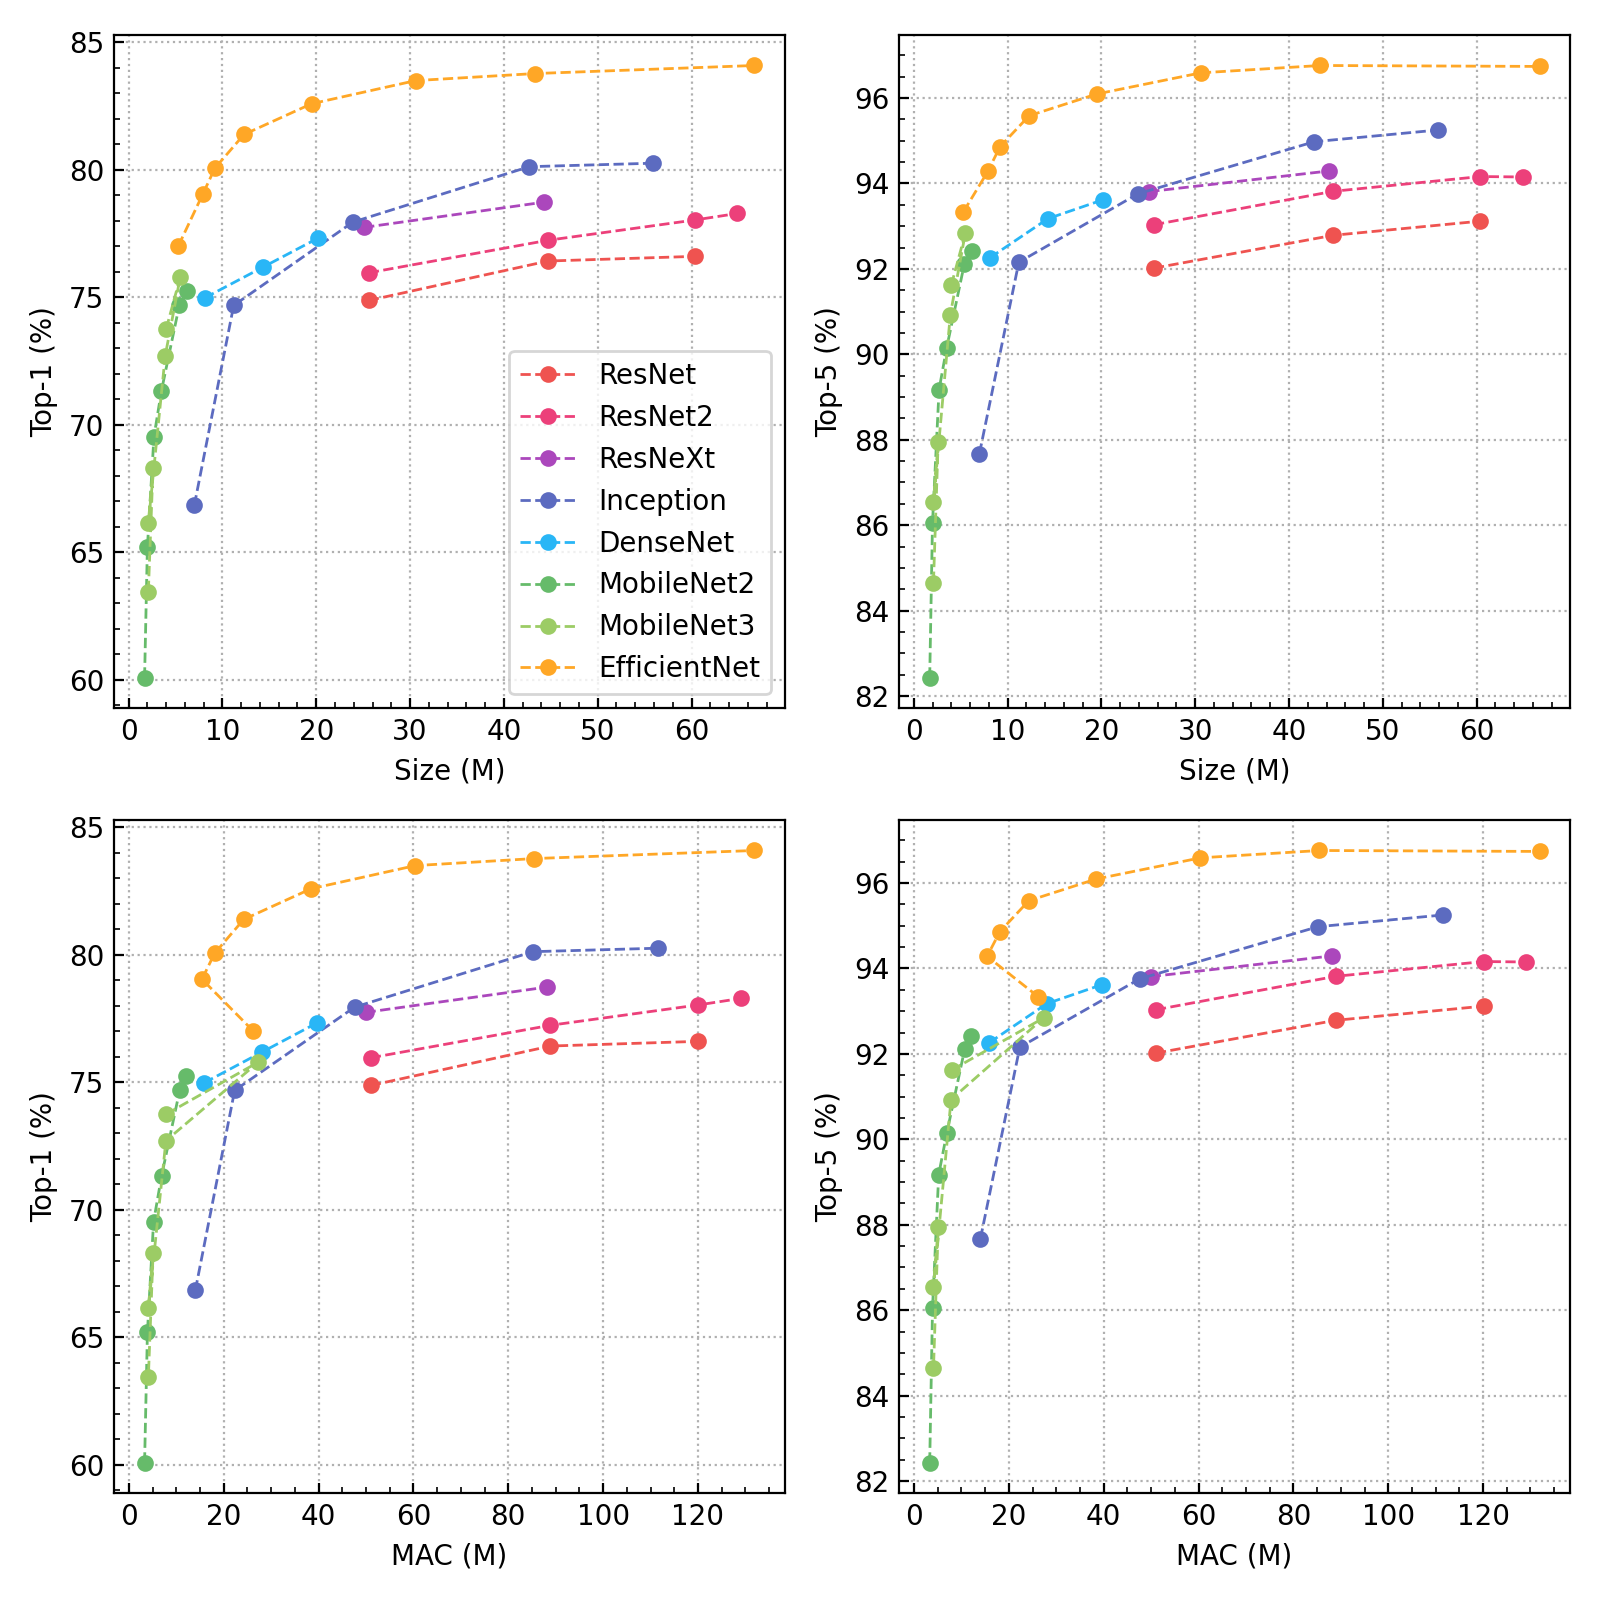
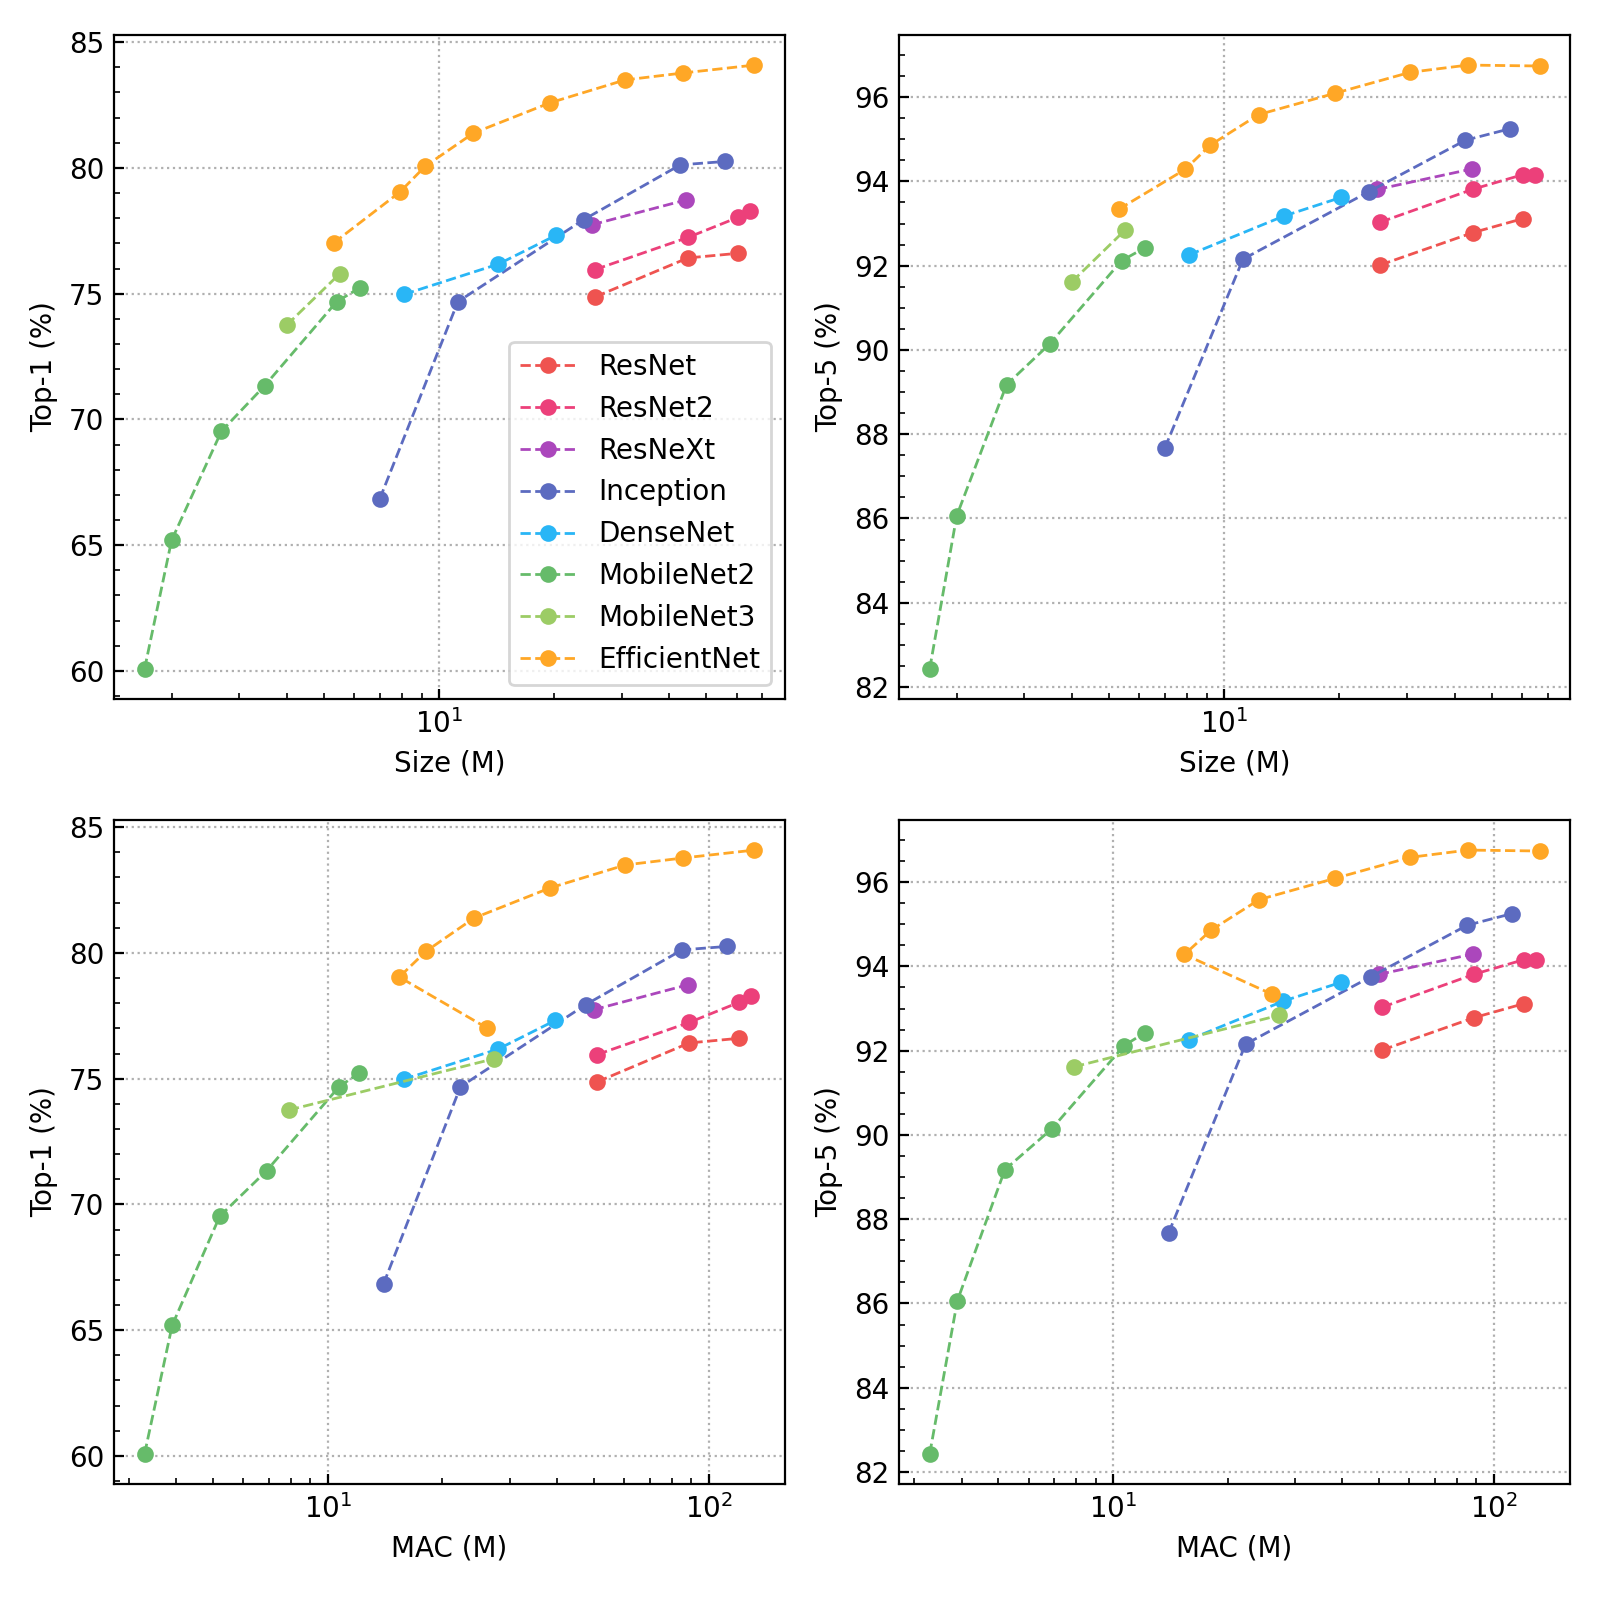
Update the summary plots with a log scale and MobileNetV3 filtering

diff --git a/examples/generate_summary.py b/examples/generate_summary.py
@@ -38,7 +38,7 @@ groups.append(
 groups.append(
     ('MobileNet2', '#66BB6A', np.array([('MobileNet' in x) and ('v2' in x) for x in name])))
 groups.append(
-    ('MobileNet3', '#9CCC65', np.array([('v3' in x) for x in name])))
+    ('MobileNet3', '#9CCC65', np.array([('v3large' in x) and ('mini' not in x) for x in name])))
 groups.append(
     ('EfficientNet', '#FFA726', np.array([('EfficientNet' in x) for x in name])))
 
@@ -53,15 +53,19 @@ for (label, color, index) in groups:
 
 axarr[0, 0].legend()
 axarr[0, 0].set_xlabel('Size (M)')
+axarr[0, 0].set_xscale('log')
 axarr[0, 0].set_ylabel('Top-1 (%)')
 
 axarr[0, 1].set_xlabel('Size (M)')
+axarr[0, 1].set_xscale('log')
 axarr[0, 1].set_ylabel('Top-5 (%)')
 
 axarr[1, 0].set_xlabel('MAC (M)')
+axarr[1, 0].set_xscale('log')
 axarr[1, 0].set_ylabel('Top-1 (%)')
 
 axarr[1, 1].set_xlabel('MAC (M)')
+axarr[1, 1].set_xscale('log')
 axarr[1, 1].set_ylabel('Top-5 (%)')
 
 for i in range(2):

diff --git a/README.md b/README.md
@@ -271,6 +271,7 @@ with tf.Session() as sess:
   * Stem: rounded the number of parameters (w/o fully-connected layers)
 - The computation times were measured on NVIDIA Tesla P100 (3584 cores, 16 GB global memory) with cuDNN 6.0 and CUDA 8.0.
   * Speed: milliseconds for inferences of 100 images
+- The summary plot is generated by [this script](examples/generate_summary.py).
 
 |              | Input | Top-1       | Top-5       | MAC    | Size   | Stem   | Speed | References                                                                                                                                                                                                                                                                                                                                                                                                                                         |
 |--------------|-------|-------------|-------------|--------|--------|--------|-------|----------------------------------------------------------------------------------------------------------------------------------------------------------------------------------------------------------------------------------------------------------------------------------------------------------------------------------------------------------------------------------------------------------------------------------------------------|
